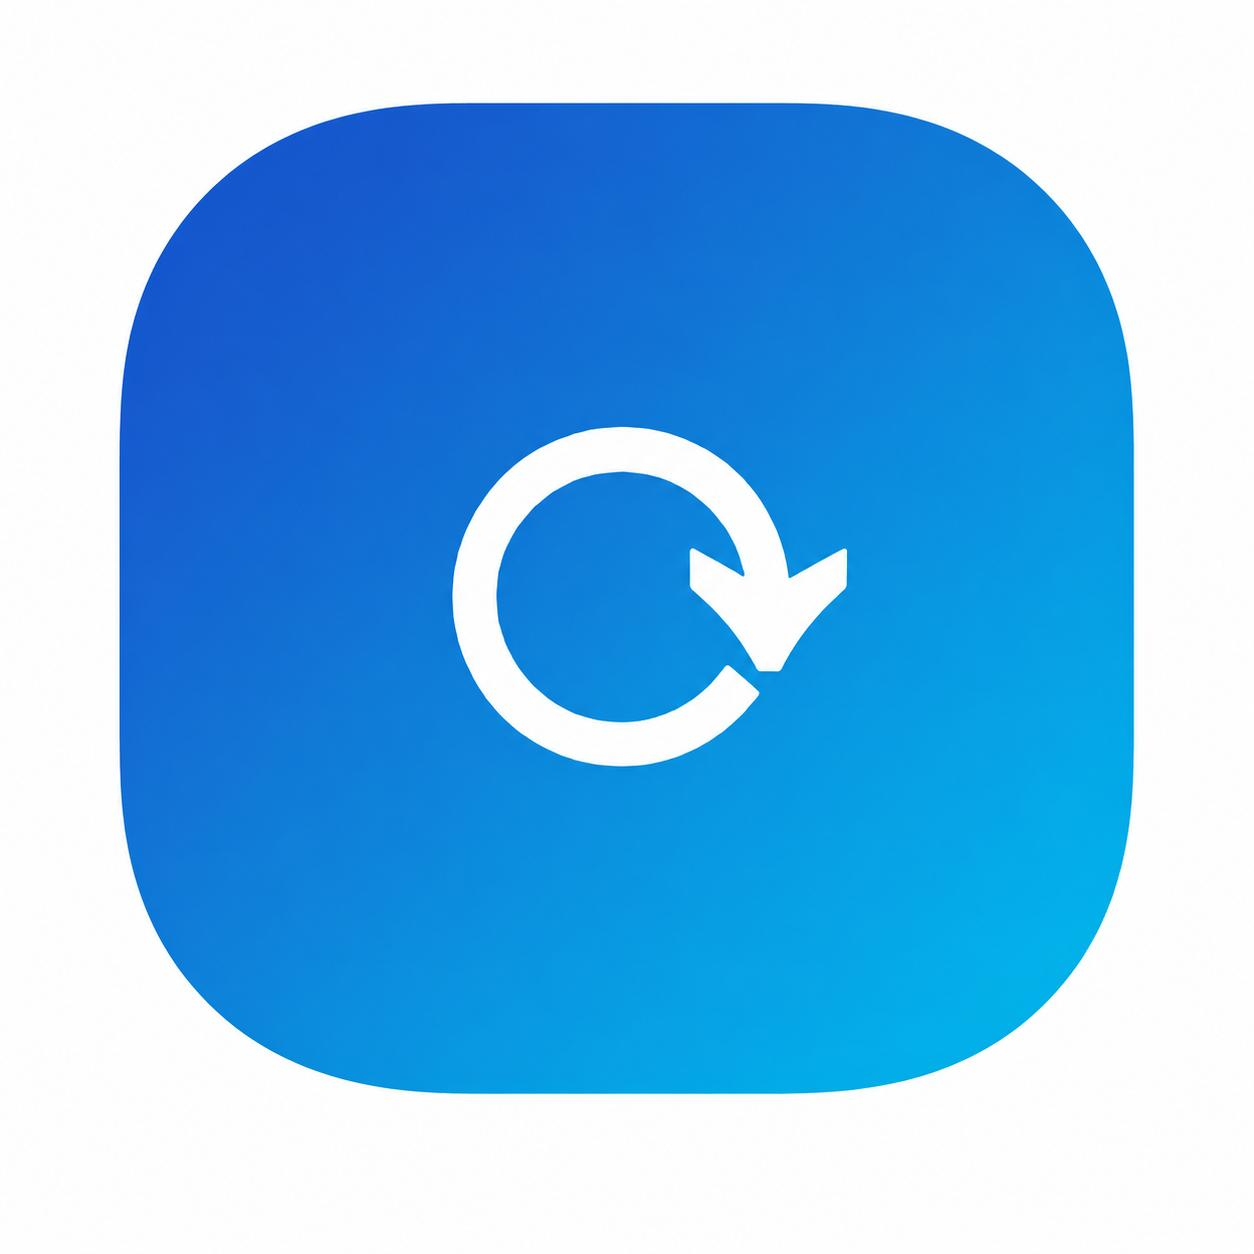
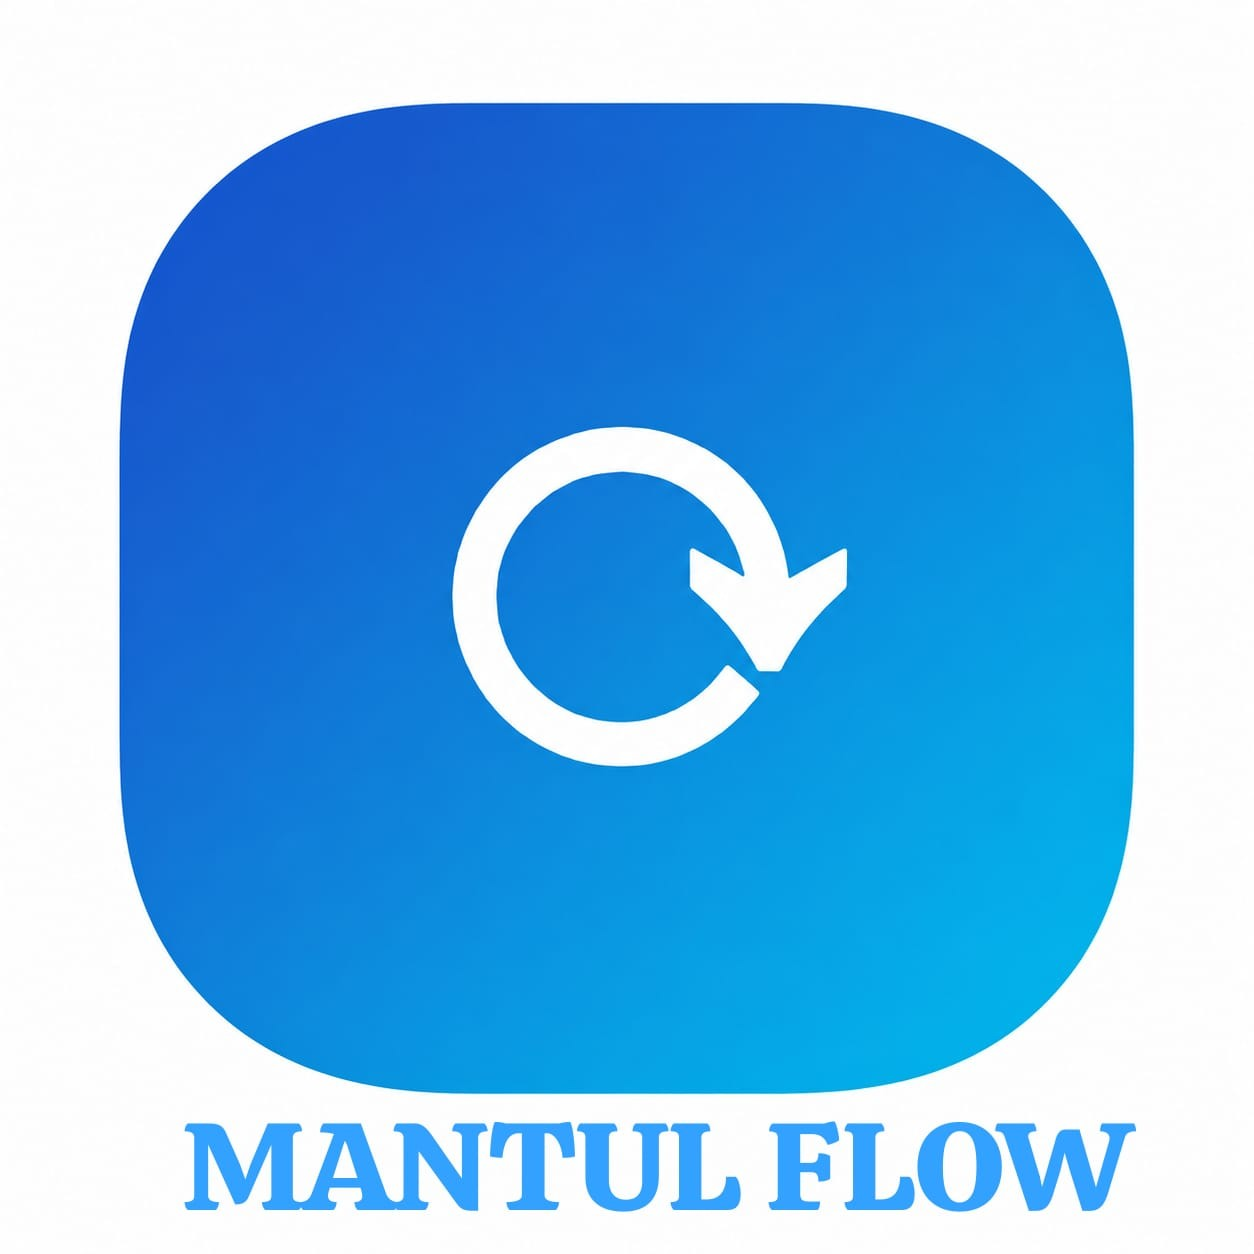
Fix server.js - use sync jwt.verify in WebSocket handler

Changed region(s): [[0.1244, 0.8708, 0.9019, 0.9641]]

diff --git a/public/admin.html b/public/admin.html
@@ -2,9 +2,11 @@
 <html lang="en">
 <head>
 <meta charset="UTF-8"/>
-<meta name="viewport" content="width=device-width, initial-scale=1.0"/>
-<title>Admin — MANTUL FLOW</title>
+<meta name="viewport" content="width=1200"/>
+<title>Admin MANTUL FLOW</title>
 <link href="https://fonts.googleapis.com/css2?family=Space+Grotesk:wght@300;400;500;600;700&family=Space+Mono:wght@400;700&display=swap" rel="stylesheet">
+<link rel="icon" href="/icon.jpg">
+<link rel="apple-touch-icon" href="/icon.jpg">
 <style>
 *{margin:0;padding:0;box-sizing:border-box}
 :root{

diff --git a/public/dashboard.html b/public/dashboard.html
@@ -2,10 +2,12 @@
 <html lang="en">
 <head>
 <meta charset="UTF-8"/>
-<meta name="viewport" content="width=device-width, initial-scale=1.0"/>
-<title>MANTUL FLOW — AI Smart Money Trading</title>
+<meta name="viewport" content="width=1200"/>
+<title>MANTUL FLOW</title>
 <link href="https://fonts.googleapis.com/css2?family=Space+Grotesk:wght@300;400;500;600;700&family=Space+Mono:wght@400;700&display=swap" rel="stylesheet">
 <script src="https://cdn.jsdelivr.net/npm/chart.js@4.4.0/dist/chart.umd.min.js"></script>
+<link rel="icon" href="/icon.jpg">
+<link rel="apple-touch-icon" href="/icon.jpg">
 <style>
 /* ═══════════════════════════════════════════════════
    RESET + VARIABLES

diff --git a/public/trades.html b/public/trades.html
@@ -2,9 +2,11 @@
 <html lang="en">
 <head>
 <meta charset="UTF-8"/>
-<meta name="viewport" content="width=device-width, initial-scale=1.0"/>
-<title>Trade History — MANTUL FLOW</title>
+<meta name="viewport" content="width=1200"/>
+<title>Trade History MANTUL FLOW</title>
 <link href="https://fonts.googleapis.com/css2?family=Space+Grotesk:wght@300;400;500;600;700&family=Space+Mono:wght@400;700&display=swap" rel="stylesheet">
+<link rel="icon" href="/icon.jpg">
+<link rel="apple-touch-icon" href="/icon.jpg">
 <style>
 *{margin:0;padding:0;box-sizing:border-box}
 :root{

diff --git a/public/charts.html b/public/charts.html
@@ -2,9 +2,11 @@
 <html lang="en">
 <head>
 <meta charset="UTF-8"/>
-<meta name="viewport" content="width=device-width, initial-scale=1.0"/>
+<meta name="viewport" content="width=1200"/>
 <title>Live Charts — MANTUL FLOW</title>
 <link href="https://fonts.googleapis.com/css2?family=Space+Mono:wght@400;700&family=DM+Sans:wght@400;600;700&display=swap" rel="stylesheet">
+<link rel="icon" href="/icon.jpg">
+<link rel="apple-touch-icon" href="/icon.jpg">
 <style>
 :root{
   --bg:#030712;